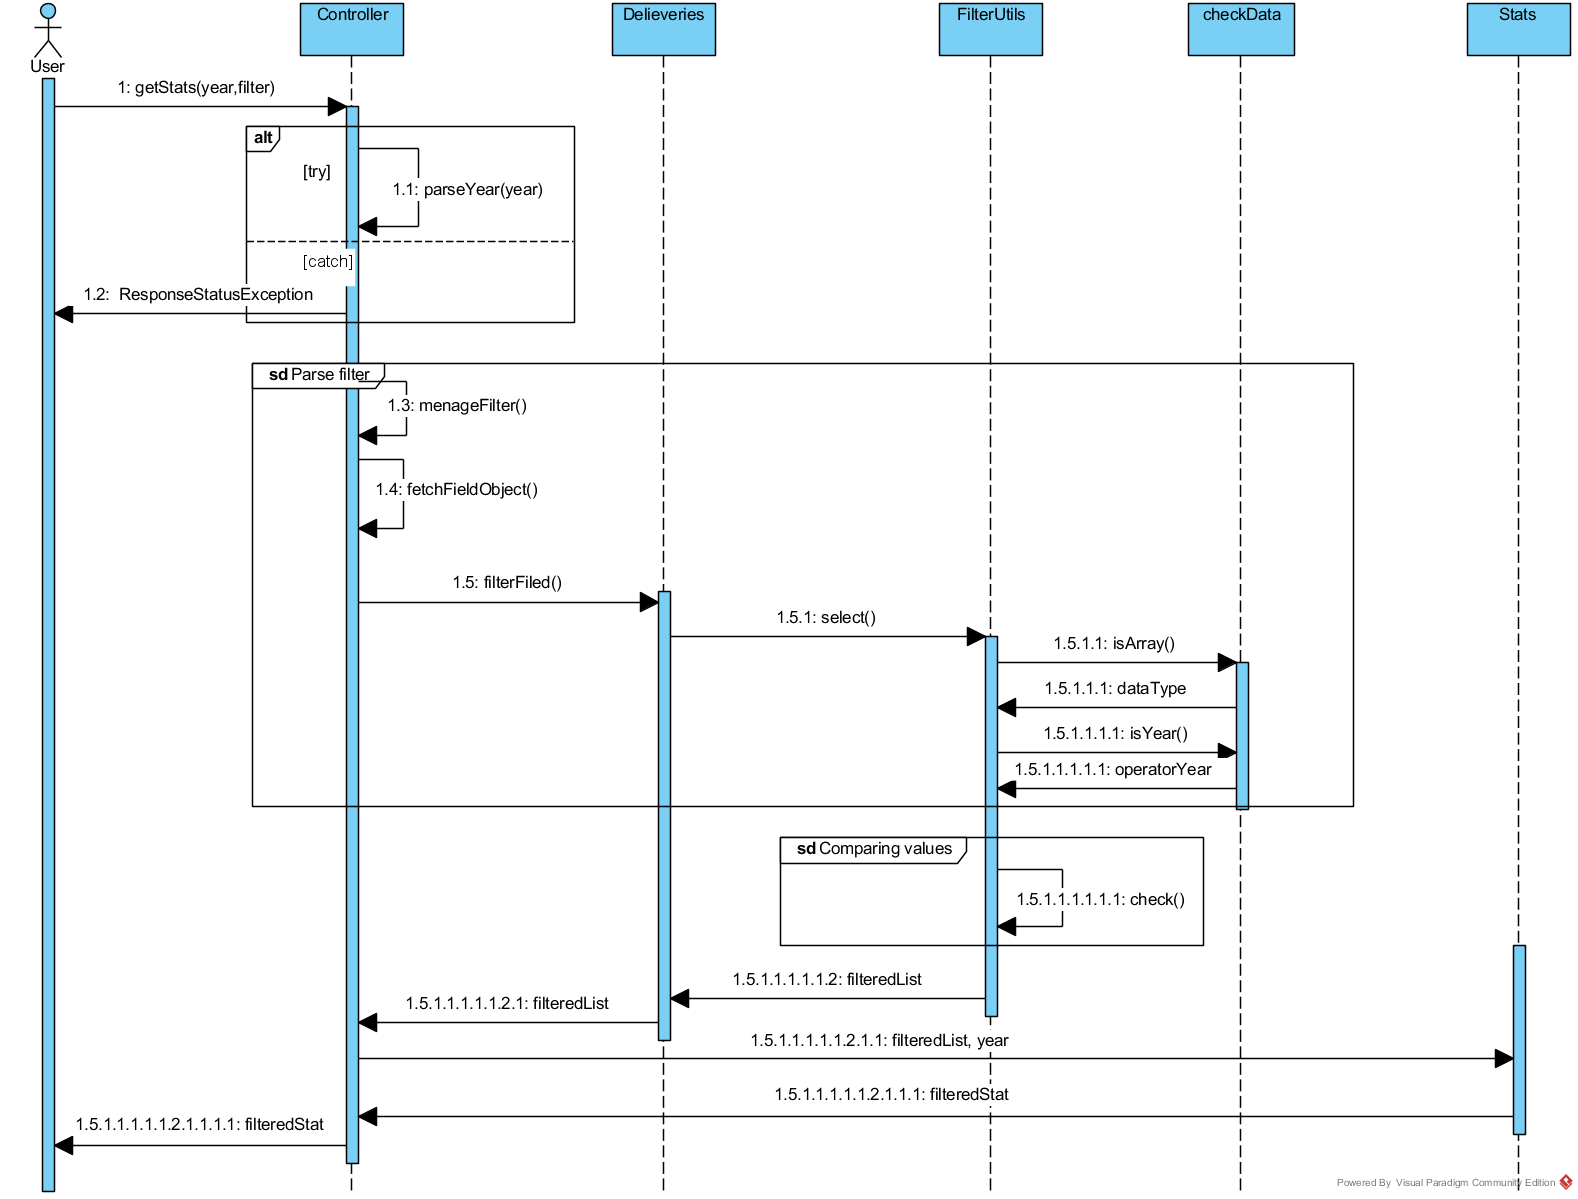
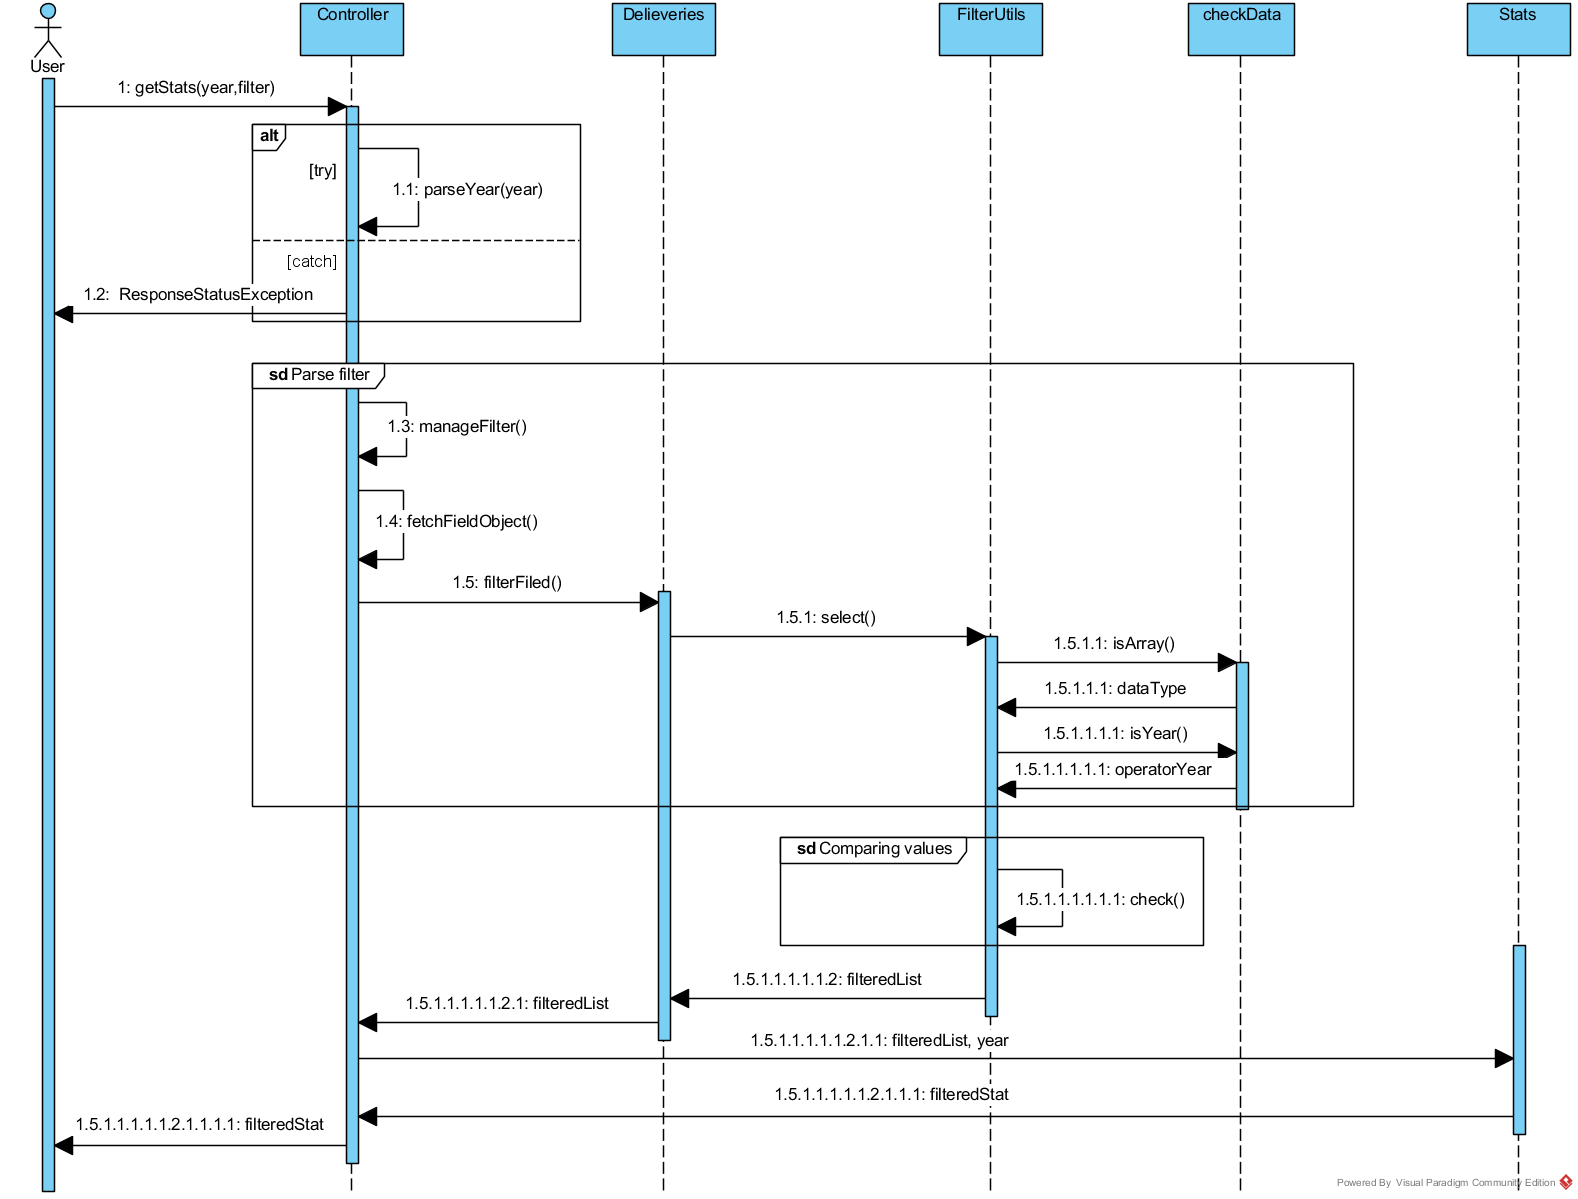
Final fix

Changed region(s): [[0.1553, 0.0926, 0.3726, 0.2777], [0.2174, 0.4012, 0.3416, 0.4937], [0.2174, 0.3086, 0.3416, 0.4012]]

diff --git a/src/main/java/com/univpm/projectoop/controller/Controller.java b/src/main/java/com/univpm/projectoop/controller/Controller.java
@@ -52,7 +52,7 @@ public class Controller {
     private ArrayList<Delivery> out = null;
 
     /**
-     * Oggetto che trasforma la lista in JSOM
+     * Oggetto che trasforma la lista in JSON
      */
     private ObjectMapper map;
 
